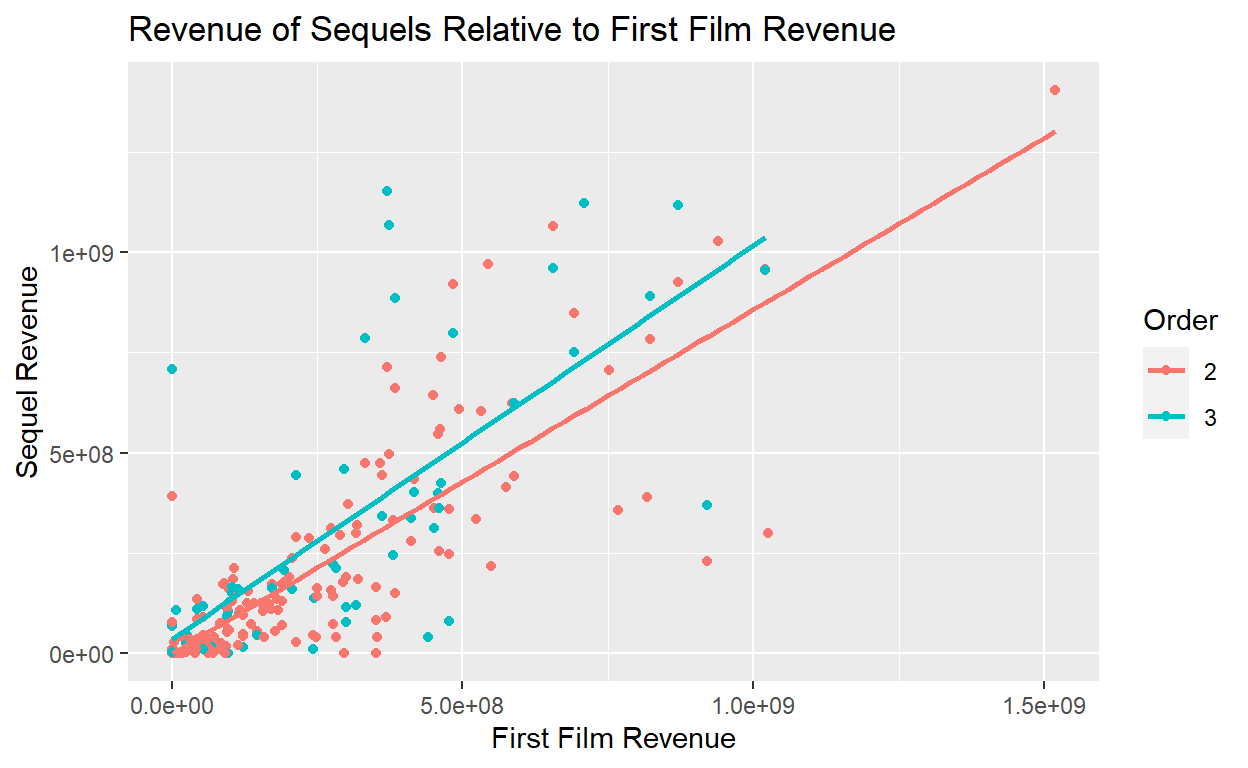
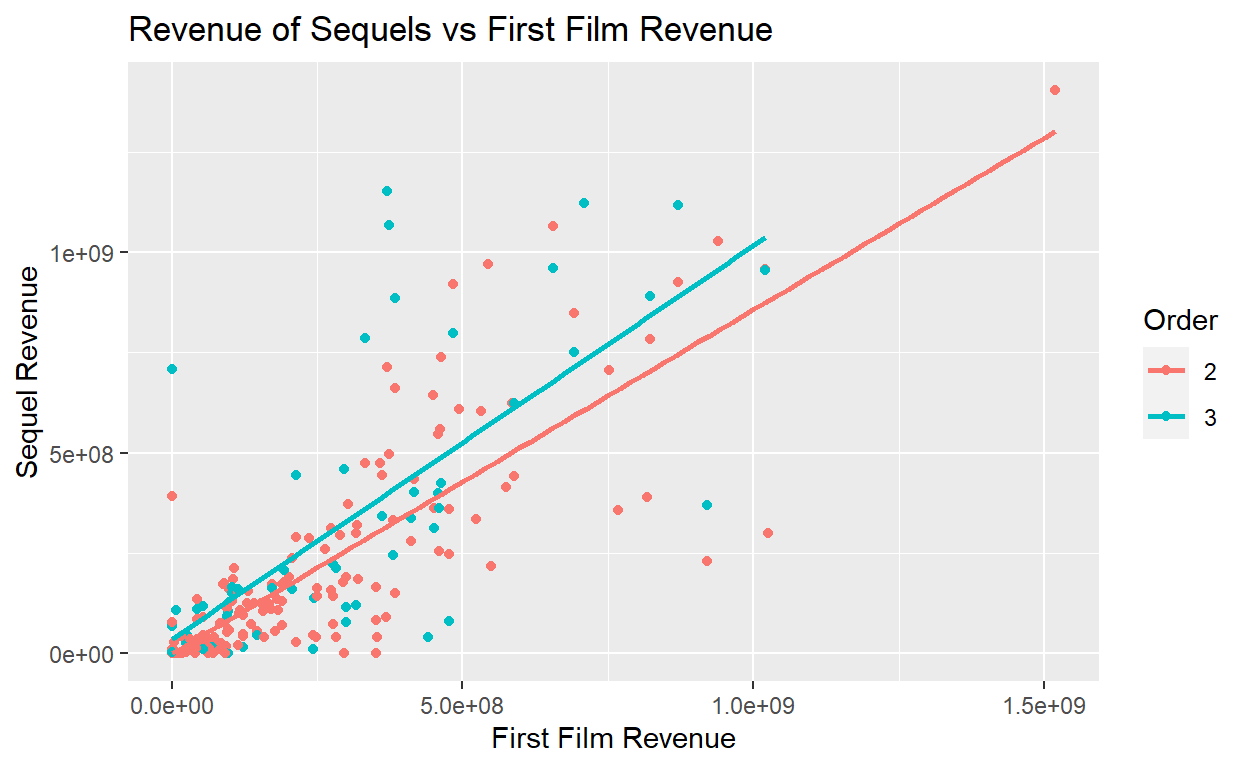
XII

Changed region(s): [[0.3438, 0.0, 0.7188, 0.0625]]

diff --git a/index.html b/index.html
@@ -1707,7 +1707,7 @@ code span.wa { color: #5e5e5e; font-style: italic; } /* Warning */
 <span>  <span class='fu'><a href='https://ggplot2.tidyverse.org/reference/geom_point.html'>geom_point</a></span><span class='op'>(</span><span class='op'>)</span><span class='op'>+</span></span>
 <span>  <span class='fu'><a href='https://ggplot2.tidyverse.org/reference/geom_smooth.html'>geom_smooth</a></span><span class='op'>(</span>method <span class='op'>=</span> <span class='st'>"lm"</span>, se <span class='op'>=</span> <span class='cn'>FALSE</span><span class='op'>)</span><span class='op'>+</span></span>
 <span>  <span class='fu'><a href='https://ggplot2.tidyverse.org/reference/labs.html'>labs</a></span><span class='op'>(</span></span>
-<span>    title <span class='op'>=</span> <span class='st'>"Revenue of Sequels Relative to First Film Revenue"</span>,</span>
+<span>    title <span class='op'>=</span> <span class='st'>"Revenue of Sequels vs First Film Revenue"</span>,</span>
 <span>    x <span class='op'>=</span> <span class='st'>"First Film Revenue"</span>,</span>
 <span>    y <span class='op'>=</span> <span class='st'>"Sequel Revenue"</span></span>
 <span>  <span class='op'>)</span></span>
